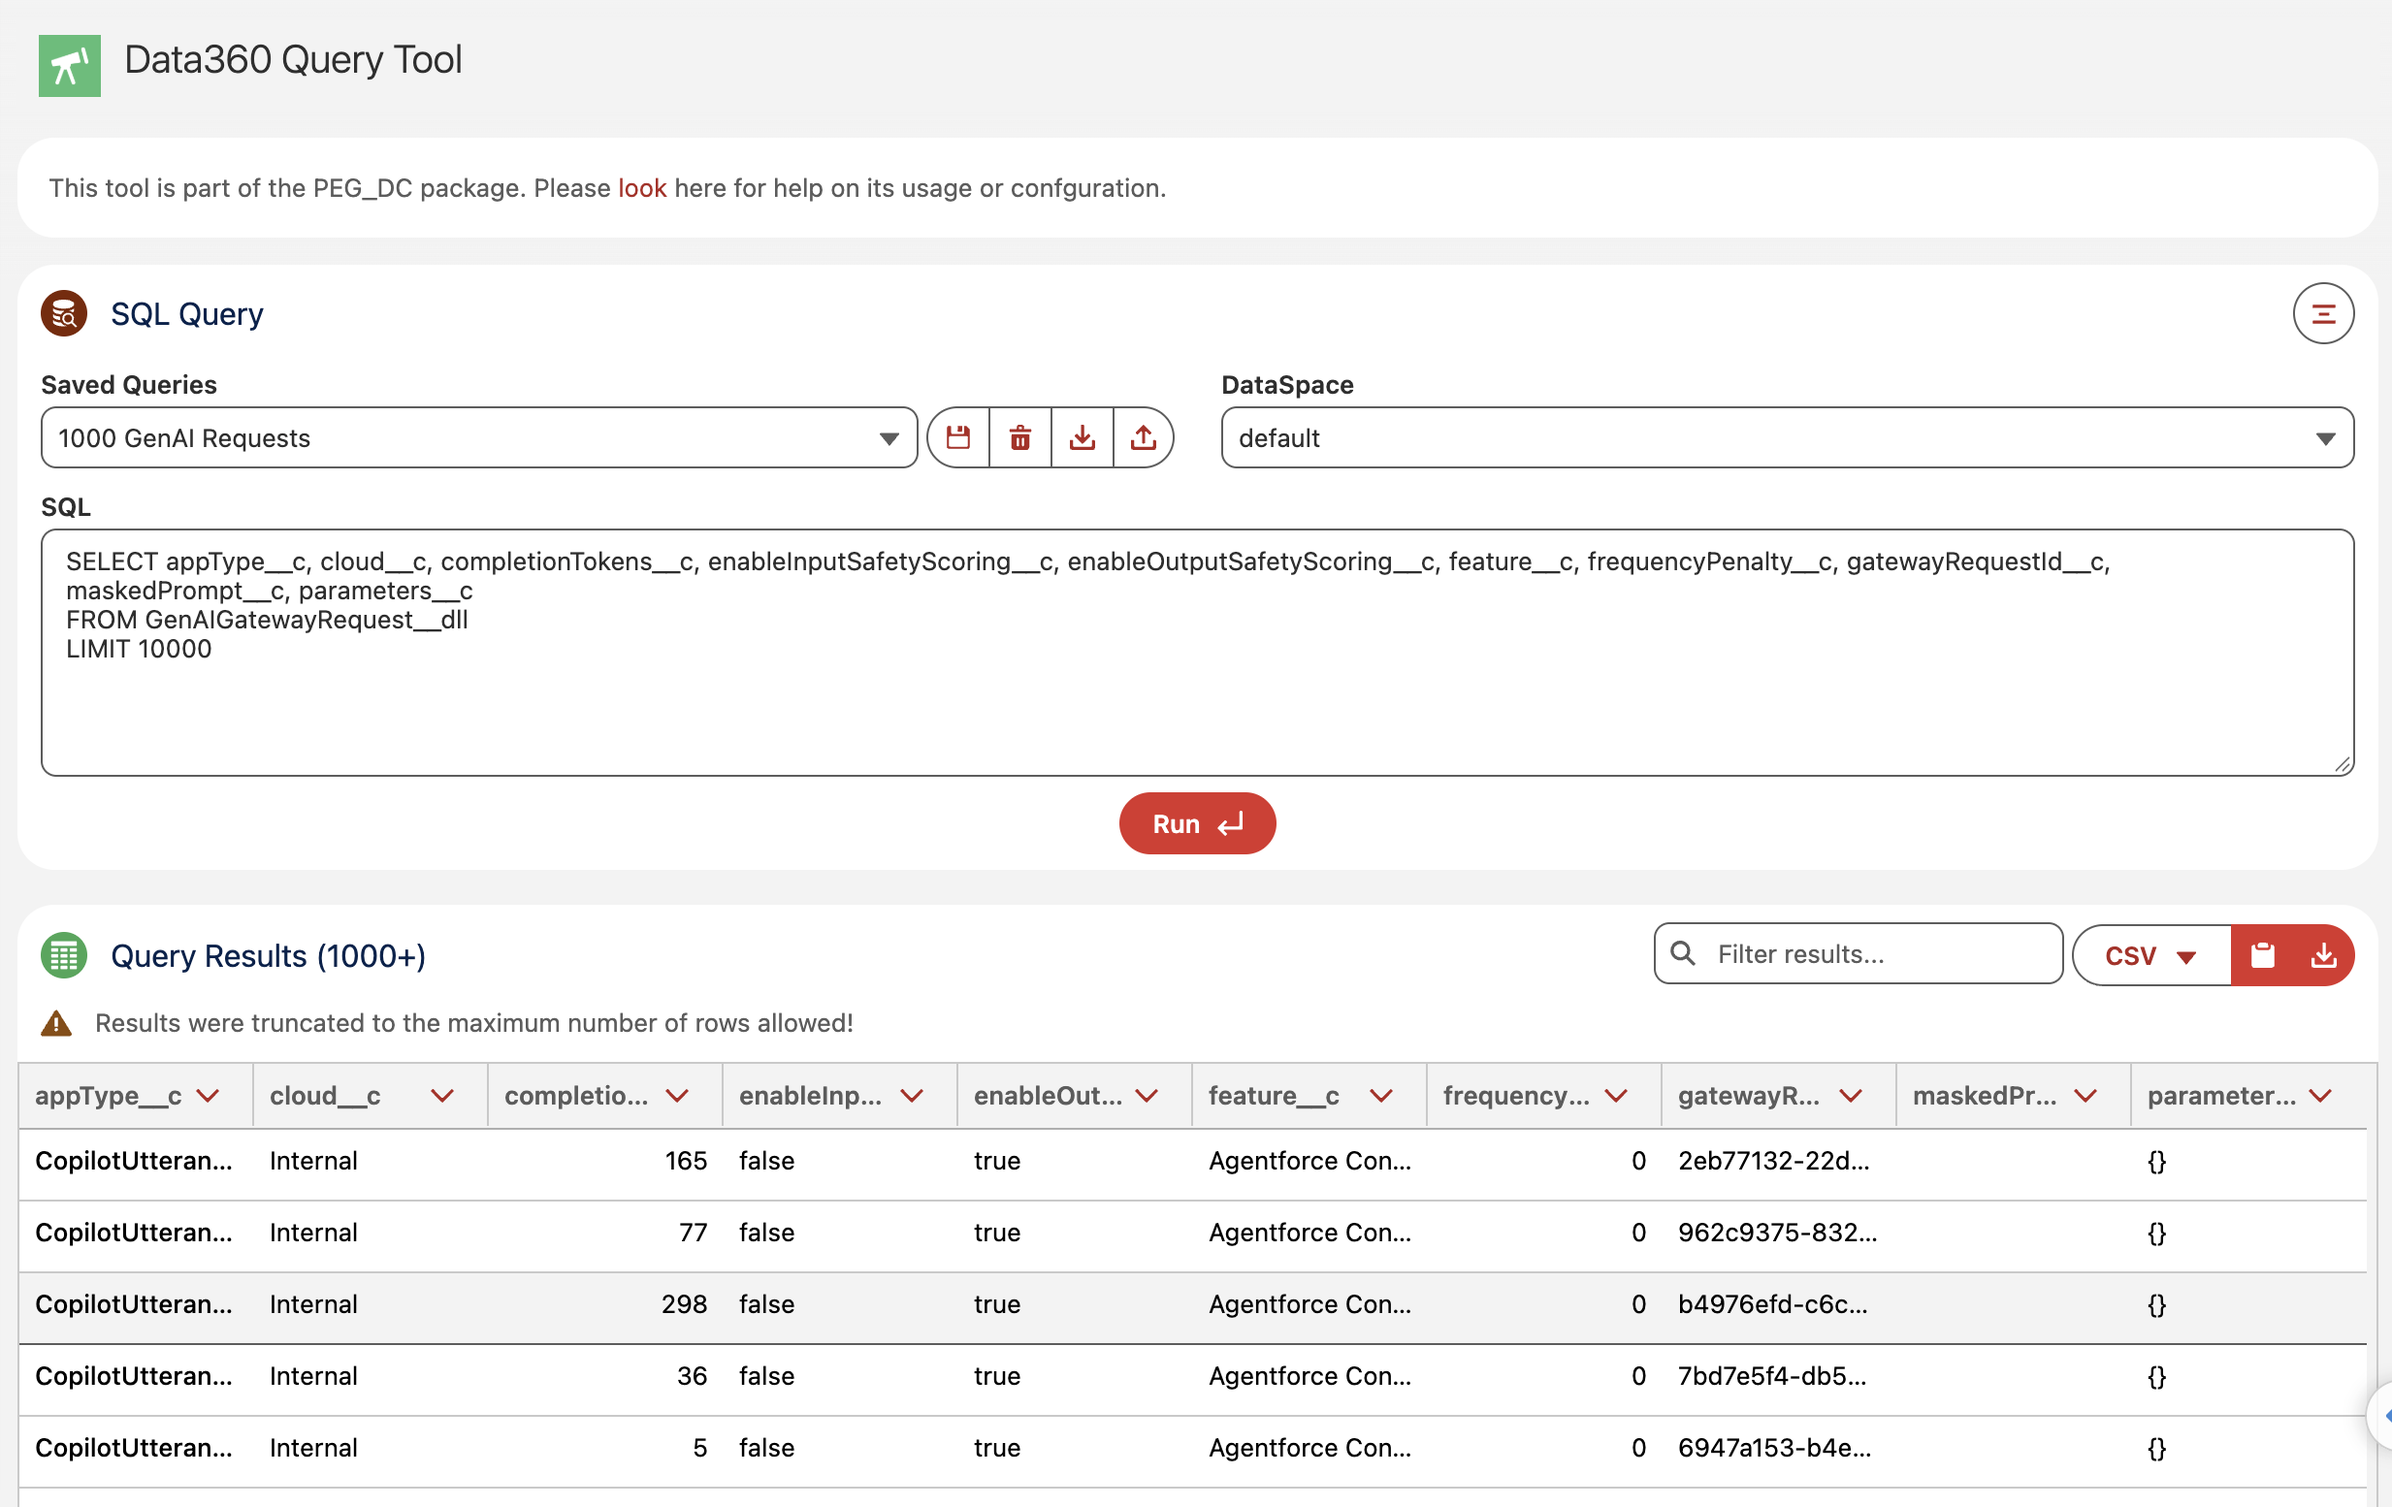
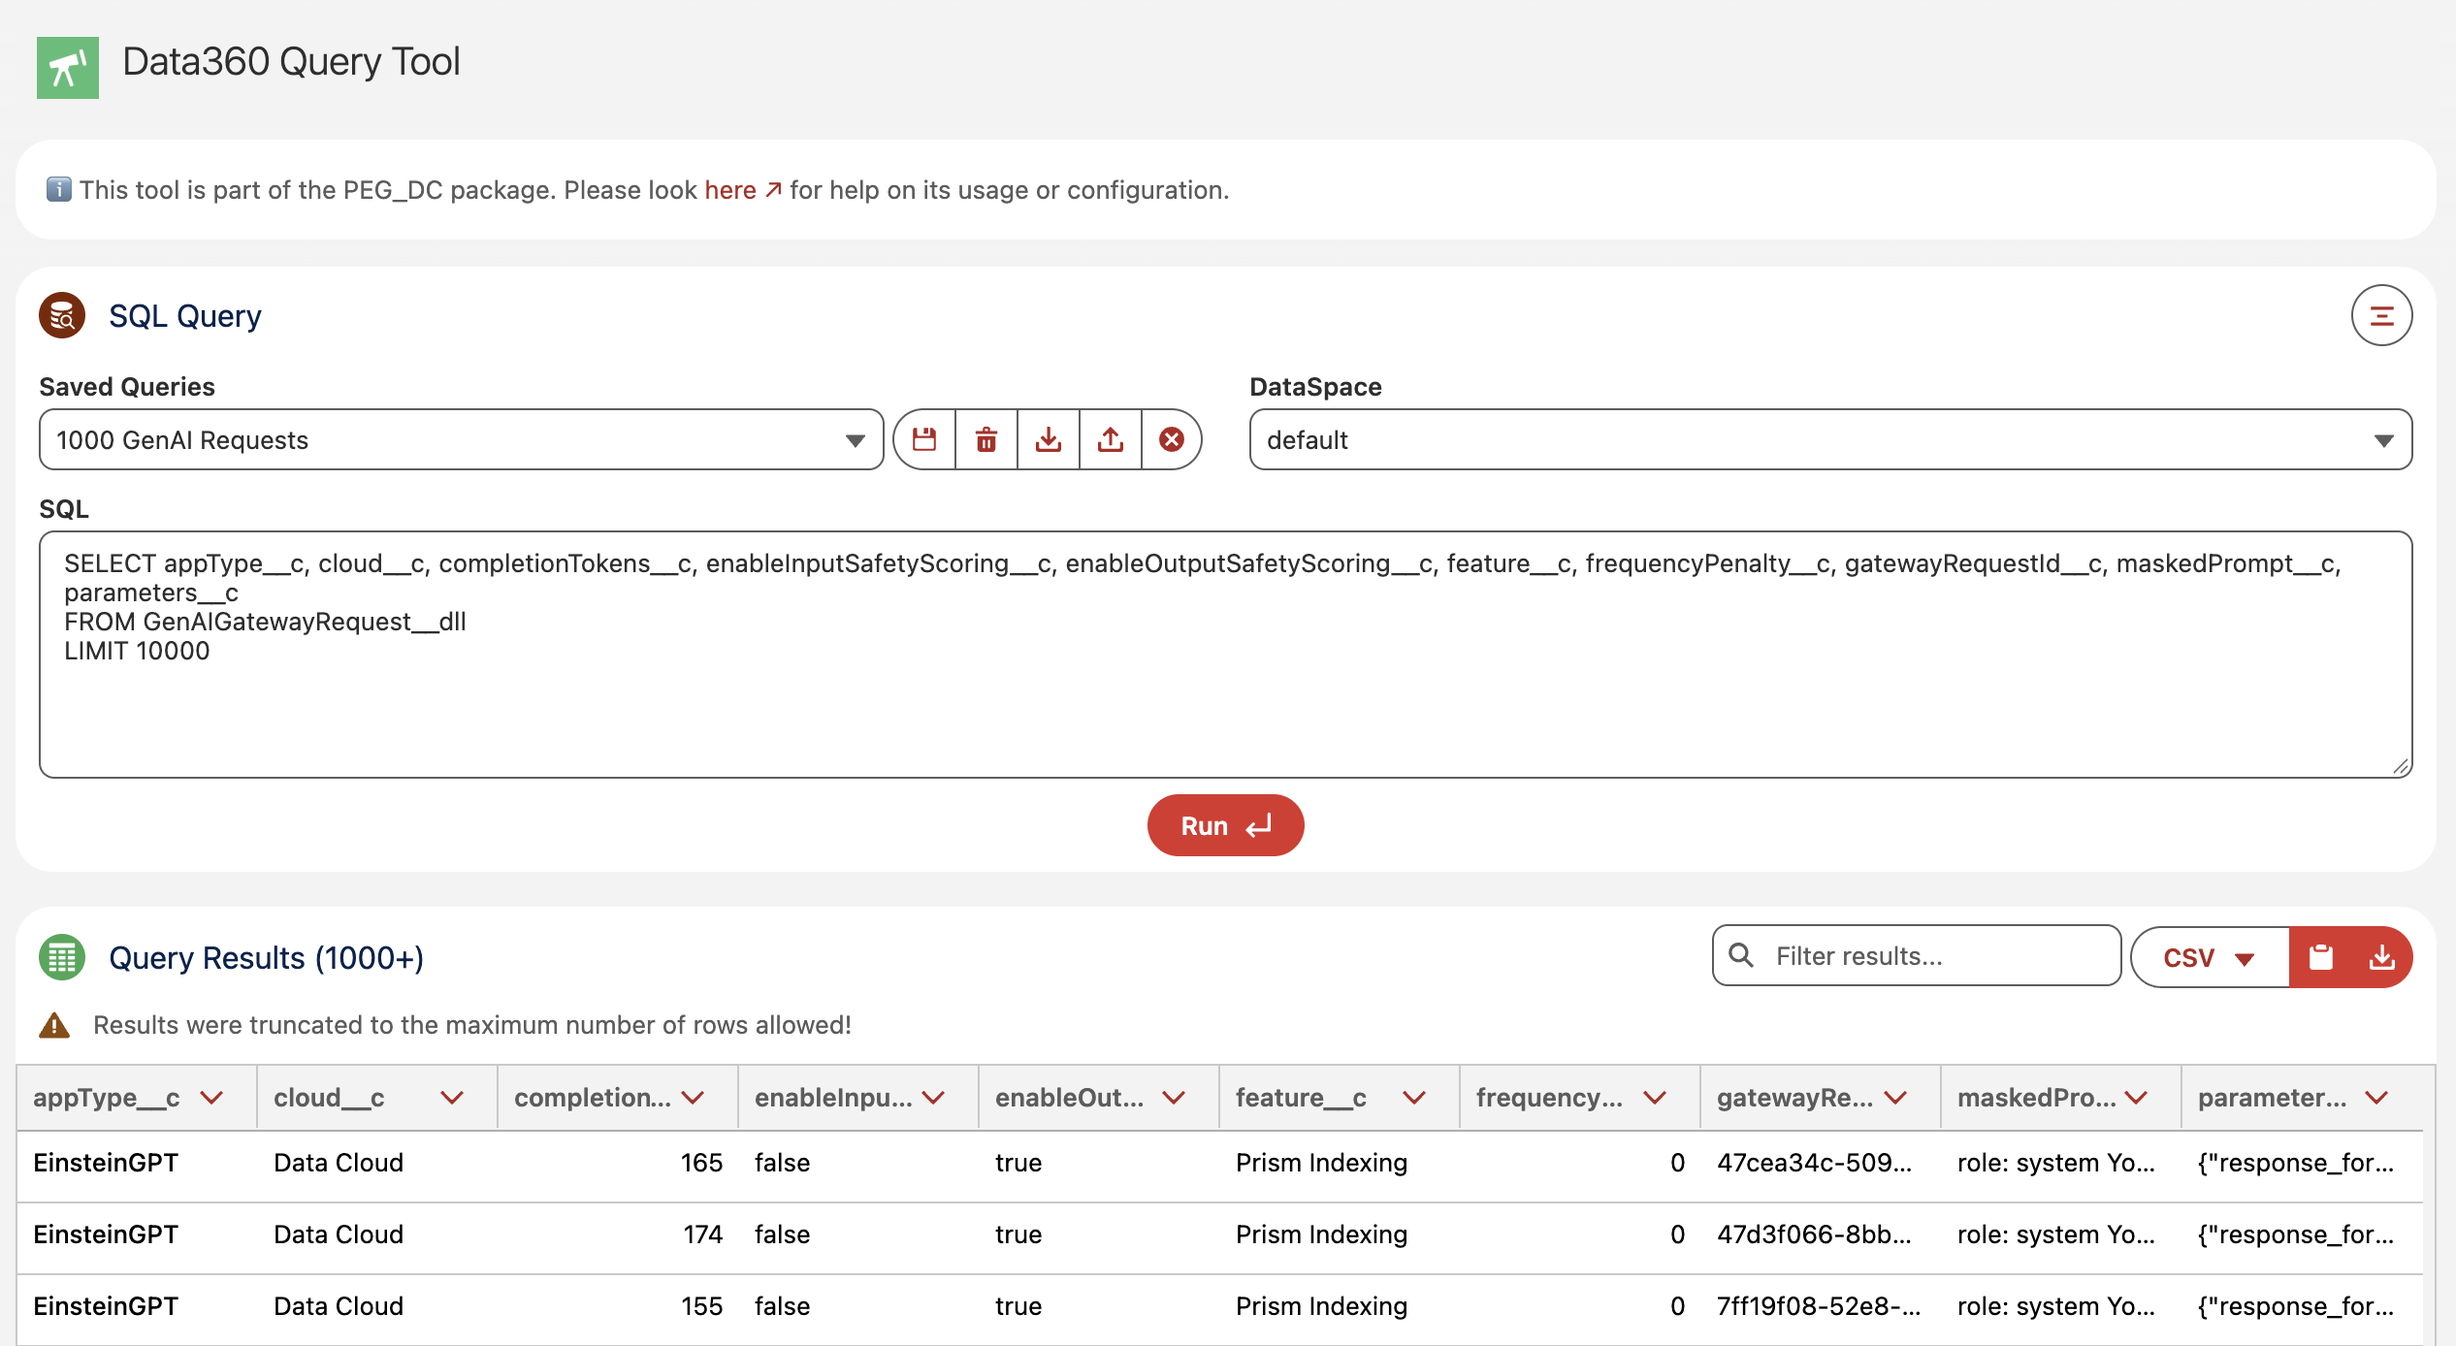
Added SaveQueries clear button

diff --git a/force-app/tooling/lwc/sfpegData360QueryToolCmp/sfpegData360QueryToolCmp.js b/force-app/tooling/lwc/sfpegData360QueryToolCmp/sfpegData360QueryToolCmp.js
@@ -51,6 +51,7 @@ import LABEL_SAVE_QUERY_TITLE from '@salesforce/label/c.sfpegData360QuerySaveQue
 import LABEL_DELETE_QUERY_TITLE from '@salesforce/label/c.sfpegData360QueryDeleteQueryTitle';
 import LABEL_DOWNLOAD_QUERIES_TITLE from '@salesforce/label/c.sfpegData360QueryDownloadQueriesTitle';
 import LABEL_UPLOAD_QUERIES_TITLE from '@salesforce/label/c.sfpegData360QueryUploadQueriesTitle';
+import LABEL_CLEAR_QUERIES_TITLE from '@salesforce/label/c.sfpegData360QueryClearQueriesTitle';
 
 // Synthetic row key (Data360 query results have no guaranteed unique column)
 const ROW_KEY = '_sfpegRowKey';
@@ -109,6 +110,7 @@ export default class SfpegData360QueryToolCmp extends LightningElement {
     @api deleteQueryTitle = LABEL_DELETE_QUERY_TITLE;  // Title of the delete saved query button
     @api downloadQueriesTitle = LABEL_DOWNLOAD_QUERIES_TITLE;  // Title of the saved queries download button
     @api uploadQueriesTitle = LABEL_UPLOAD_QUERIES_TITLE;  // Title of the saved queries upload button
+    @api clearQueriesTitle = LABEL_CLEAR_QUERIES_TITLE;  // Title of the clear all saved queries button
     @api isDebug = false;   // Merge Debug mode activation
 
     //----------------------------------------------------------------
@@ -338,6 +340,29 @@ export default class SfpegData360QueryToolCmp extends LightningElement {
         if (this.isDebug) console.log('handleDeleteQueryClick: END with #queries ',this.savedQueries.length);
     }
 
+    async handleClearQueriesClick(event) {
+        if (this.isDebug) console.log('handleClearQueriesClick: START with #queries ',this.savedQueries.length);
+        const queryCount = this.savedQueries.length;
+        const doClear = await LightningConfirm.open({
+            label: this.clearQueriesTitle,
+            message: 'Delete all ' + queryCount + ' saved queries from the browser?',
+            theme: 'warning'
+        });
+        if (!doClear) {
+            if (this.isDebug) console.log('handleClearQueriesClick: END / clearing cancelled');
+            return;
+        }
+        if (this.storeSavedQueries([])) {
+            this.selectedQueryName = null;
+            this.dispatchEvent(new ShowToastEvent({
+                title: 'Saved queries cleared',
+                message: queryCount + ' saved queries deleted.',
+                variant: 'success'
+            }));
+        }
+        if (this.isDebug) console.log('handleClearQueriesClick: END with #queries ',this.savedQueries.length);
+    }
+
     handleDownloadQueriesClick(event) {
         if (this.isDebug) console.log('handleDownloadQueriesClick: START with #queries ',this.savedQueries.length);
         try {
@@ -464,8 +489,8 @@ export default class SfpegData360QueryToolCmp extends LightningElement {
         this.inspectedCell = null;
     }
 
-    // Default max height of the tile content released at first interaction (e.g. resize handle drag),
-    // current tile size being kept as explicit size to avoid any jump (and kept when other cells are inspected)
+    // Current tile size kept as explicit size at first interaction (e.g. resize handle drag)
+    // to avoid any jump (and kept when other cells are inspected)
     handleInspectResize(event) {
         const boxElement = this.refs.inspectBox;
         if (!boxElement || boxElement.classList.contains('inspectBoxResized')) return;
@@ -650,12 +675,12 @@ export default class SfpegData360QueryToolCmp extends LightningElement {
         if (this.isDebug) console.log('applyInspectLayout: layout applied ',JSON.stringify(this.inspectLayout));
     }
 
-    // Fits the value area height to the space remaining at the bottom of a user sized tile
+    // Fits the value area height to the space remaining at the bottom of the (default or user sized) tile
     // (value area being nested within the lightning-tile internal layout, out of reach of CSS flex sizing)
     fitInspectedValue() {
         const boxElement = this.refs?.inspectBox;
         const valueElement = this.refs?.inspectedValue;
-        if (!boxElement || !valueElement || !boxElement.classList.contains('inspectBoxResized')) return;
+        if (!boxElement || !valueElement) return;
         const boxStyle = getComputedStyle(boxElement);
         const bottomLimit = boxElement.getBoundingClientRect().bottom
             - parseFloat(boxStyle.paddingBottom) - parseFloat(boxStyle.borderBottomWidth);

diff --git a/force-app/tooling/lwc/sfpegData360QueryToolCmp/sfpegData360QueryToolCmp.html b/force-app/tooling/lwc/sfpegData360QueryToolCmp/sfpegData360QueryToolCmp.html
@@ -77,6 +77,14 @@
                                                             icon-name="utility:upload"
                                                             onclick={handleUploadQueriesClick} >
                                     </lightning-button-icon>
+                                    <lightning-button-icon  variant="border-filled"
+                                                            name="clearQueries"
+                                                            title={clearQueriesTitle}
+                                                            alternative-text={clearQueriesTitle}
+                                                            icon-name="utility:clear"
+                                                            disabled={isDownloadQueriesDisabled}
+                                                            onclick={handleClearQueriesClick} >
+                                    </lightning-button-icon>
                                 </lightning-button-group>
                                 <!-- hidden file input opened by the upload button -->
                                 <input  type="file"

diff --git a/force-app/tooling/lwc/sfpegData360QueryToolCmp/sfpegData360QueryToolCmp.css b/force-app/tooling/lwc/sfpegData360QueryToolCmp/sfpegData360QueryToolCmp.css
@@ -14,13 +14,15 @@
     z-index: 1;
     pointer-events: none;
 }
-/* Tile resizable by the user in both directions (content max height released when resizing,
-   see handleInspectResize and fitInspectedValue) */
+/* Tile opened on the left with a default size, resizable by the user in both directions
+   (value area fitted to the tile height, see handleInspectResize and fitInspectedValue) */
 .inspectBox {
     pointer-events: auto;
     box-shadow: 0 -2px 4px rgba(0, 0, 0, 0.16);
     overflow: hidden;
     resize: both;
+    width: 50vw;
+    height: 8rem;
     min-width: 15rem;
     max-width: 100%;
     min-height: 5rem;
@@ -40,9 +42,5 @@
     white-space: pre-wrap;
     word-break: break-word;
     font-family: monospace;
-    max-height: 30vh;
     overflow: auto;
-}
-.inspectBoxResized .inspectedValue {
-    max-height: none;
 }

diff --git a/help/sfpegData360QueryTool.md b/help/sfpegData360QueryTool.md
@@ -50,7 +50,8 @@ to easily reuse them later, via the **Saved Queries** selector and its associate
 * the 🗑 _delete_ button removes the selected saved query (after confirmation)
 * the ⬇ _download_ button downloads the whole set of saved queries as a `savedQueries.json` file
 * the ⬆ _upload_ button upserts (by name) the saved queries contained in a JSON file
-(previously downloaded or prepared manually), invalid entries being ignored.
+(previously downloaded or prepared manually), invalid entries being ignored
+* the ✖ _clear_ button removes all saved queries from the browser (after confirmation).
 
 The selected saved query is automatically deselected as soon as the user modifies the SQL query.
 
@@ -70,7 +71,7 @@ The JSON file format is a simple list of queries, e.g.
 
 ⚠ Saved queries are stored in the local storage of the user's browser (for the current Org domain):
 they are neither shared between users nor between browsers / devices. The download / upload features
-may be used to transfer or share them.
+may be used to transfer or share them (e.g. downloading them before clearing them).
 
 ### Results Display
 
